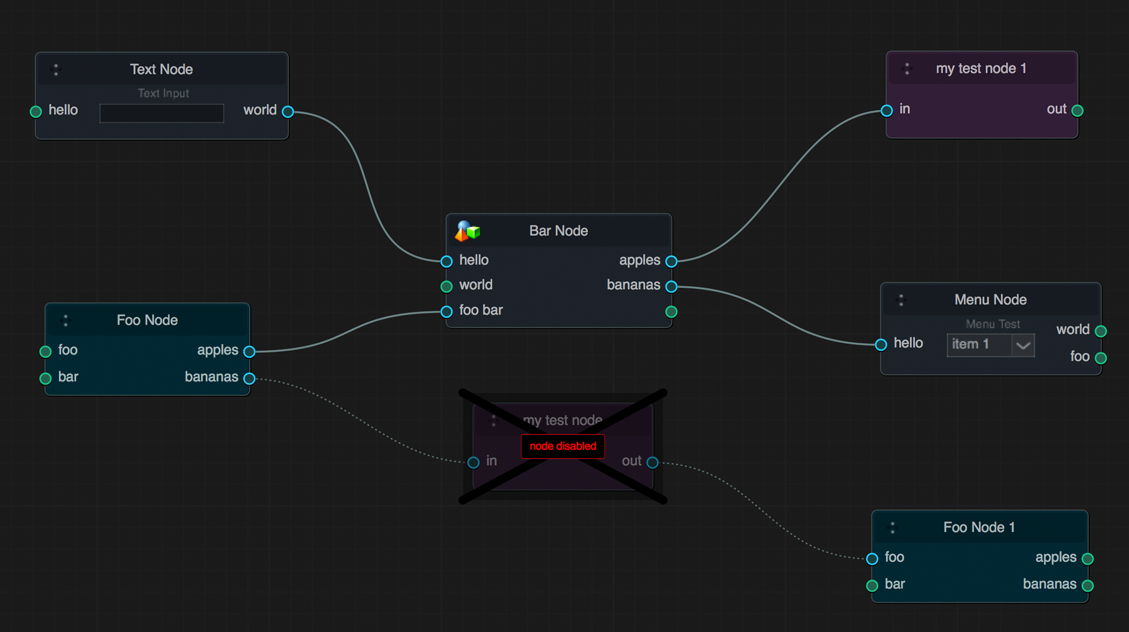
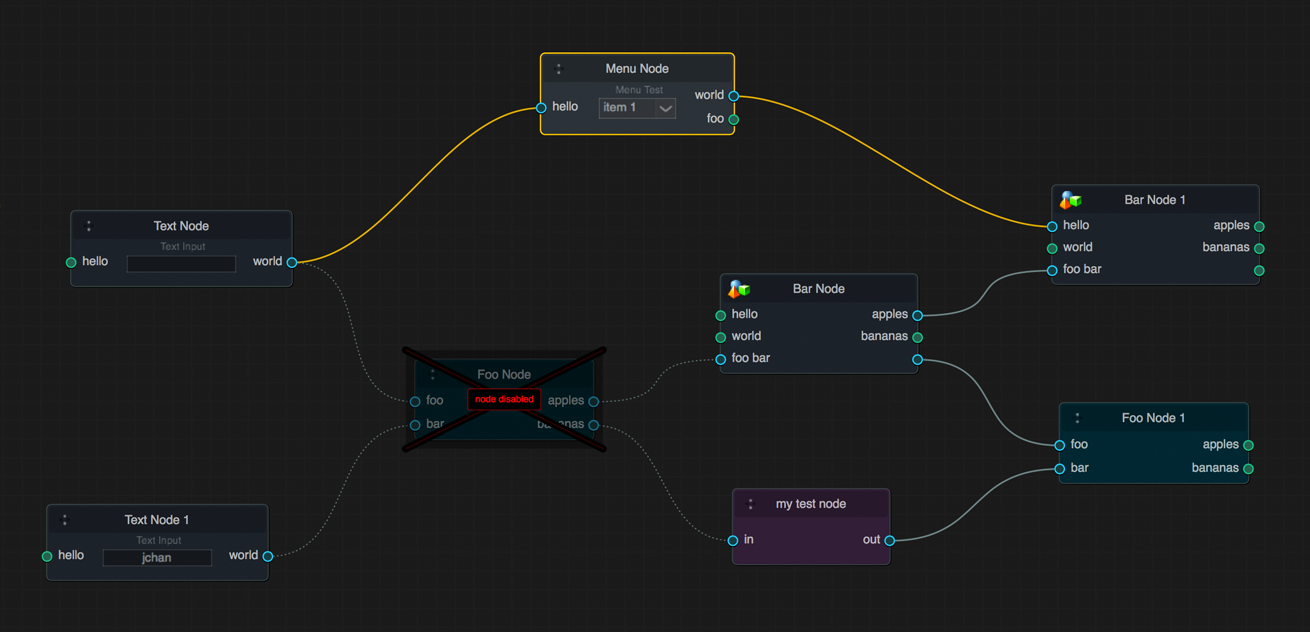
updated x overlay design

diff --git a/NodeGraphQt/widgets/node.py b/NodeGraphQt/widgets/node.py
@@ -55,6 +55,22 @@ class XDisabledItem(QtGui.QGraphicsItem):
         painter.setBrush(bg_color)
         painter.drawRoundedRect(bg_rect, 5, 5)
 
+        pen = QtGui.QPen(QtGui.QColor(155, 0, 0, 255), 0.5)
+        painter.setPen(pen)
+        painter.drawLine(dis_rect.topLeft(), dis_rect.bottomRight())
+        painter.drawLine(dis_rect.topRight(), dis_rect.bottomLeft())
+
+        point_size = 3.0
+        point_pos = (dis_rect.topLeft(), dis_rect.topRight(),
+                     dis_rect.bottomLeft(), dis_rect.bottomRight())
+        painter.setBrush(QtGui.QColor(255, 0, 0, 255))
+        for p in point_pos:
+            p.setX(p.x() - (point_size / 2))
+            p.setY(p.y() - (point_size / 2))
+            point_rect = QtCore.QRectF(
+                p, QtCore.QSizeF(point_size, point_size))
+            painter.drawEllipse(point_rect)
+
         if self.text:
             font = painter.font()
             font.setPointSize(10)
